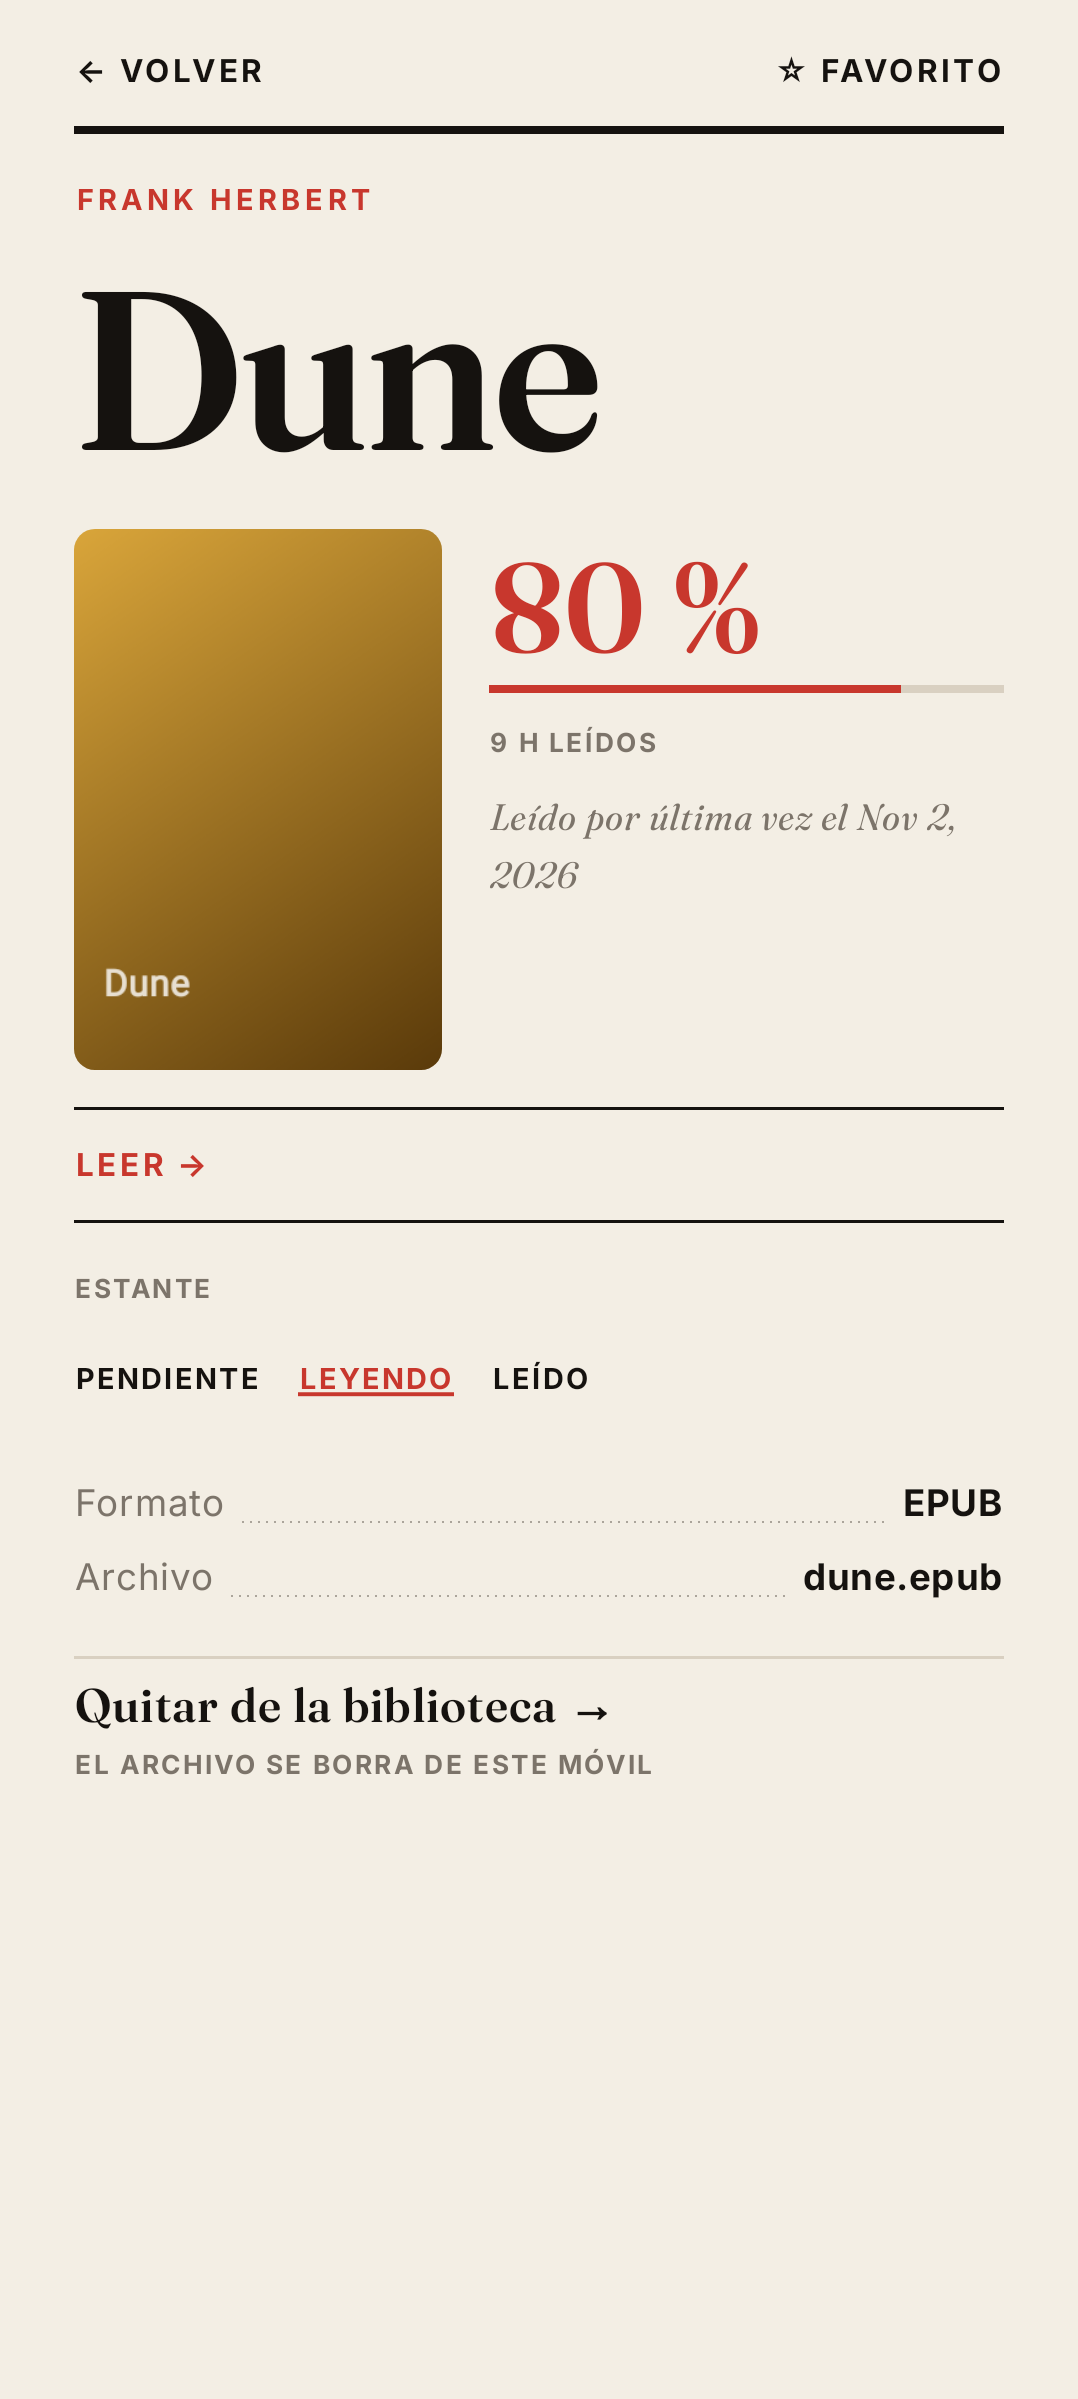
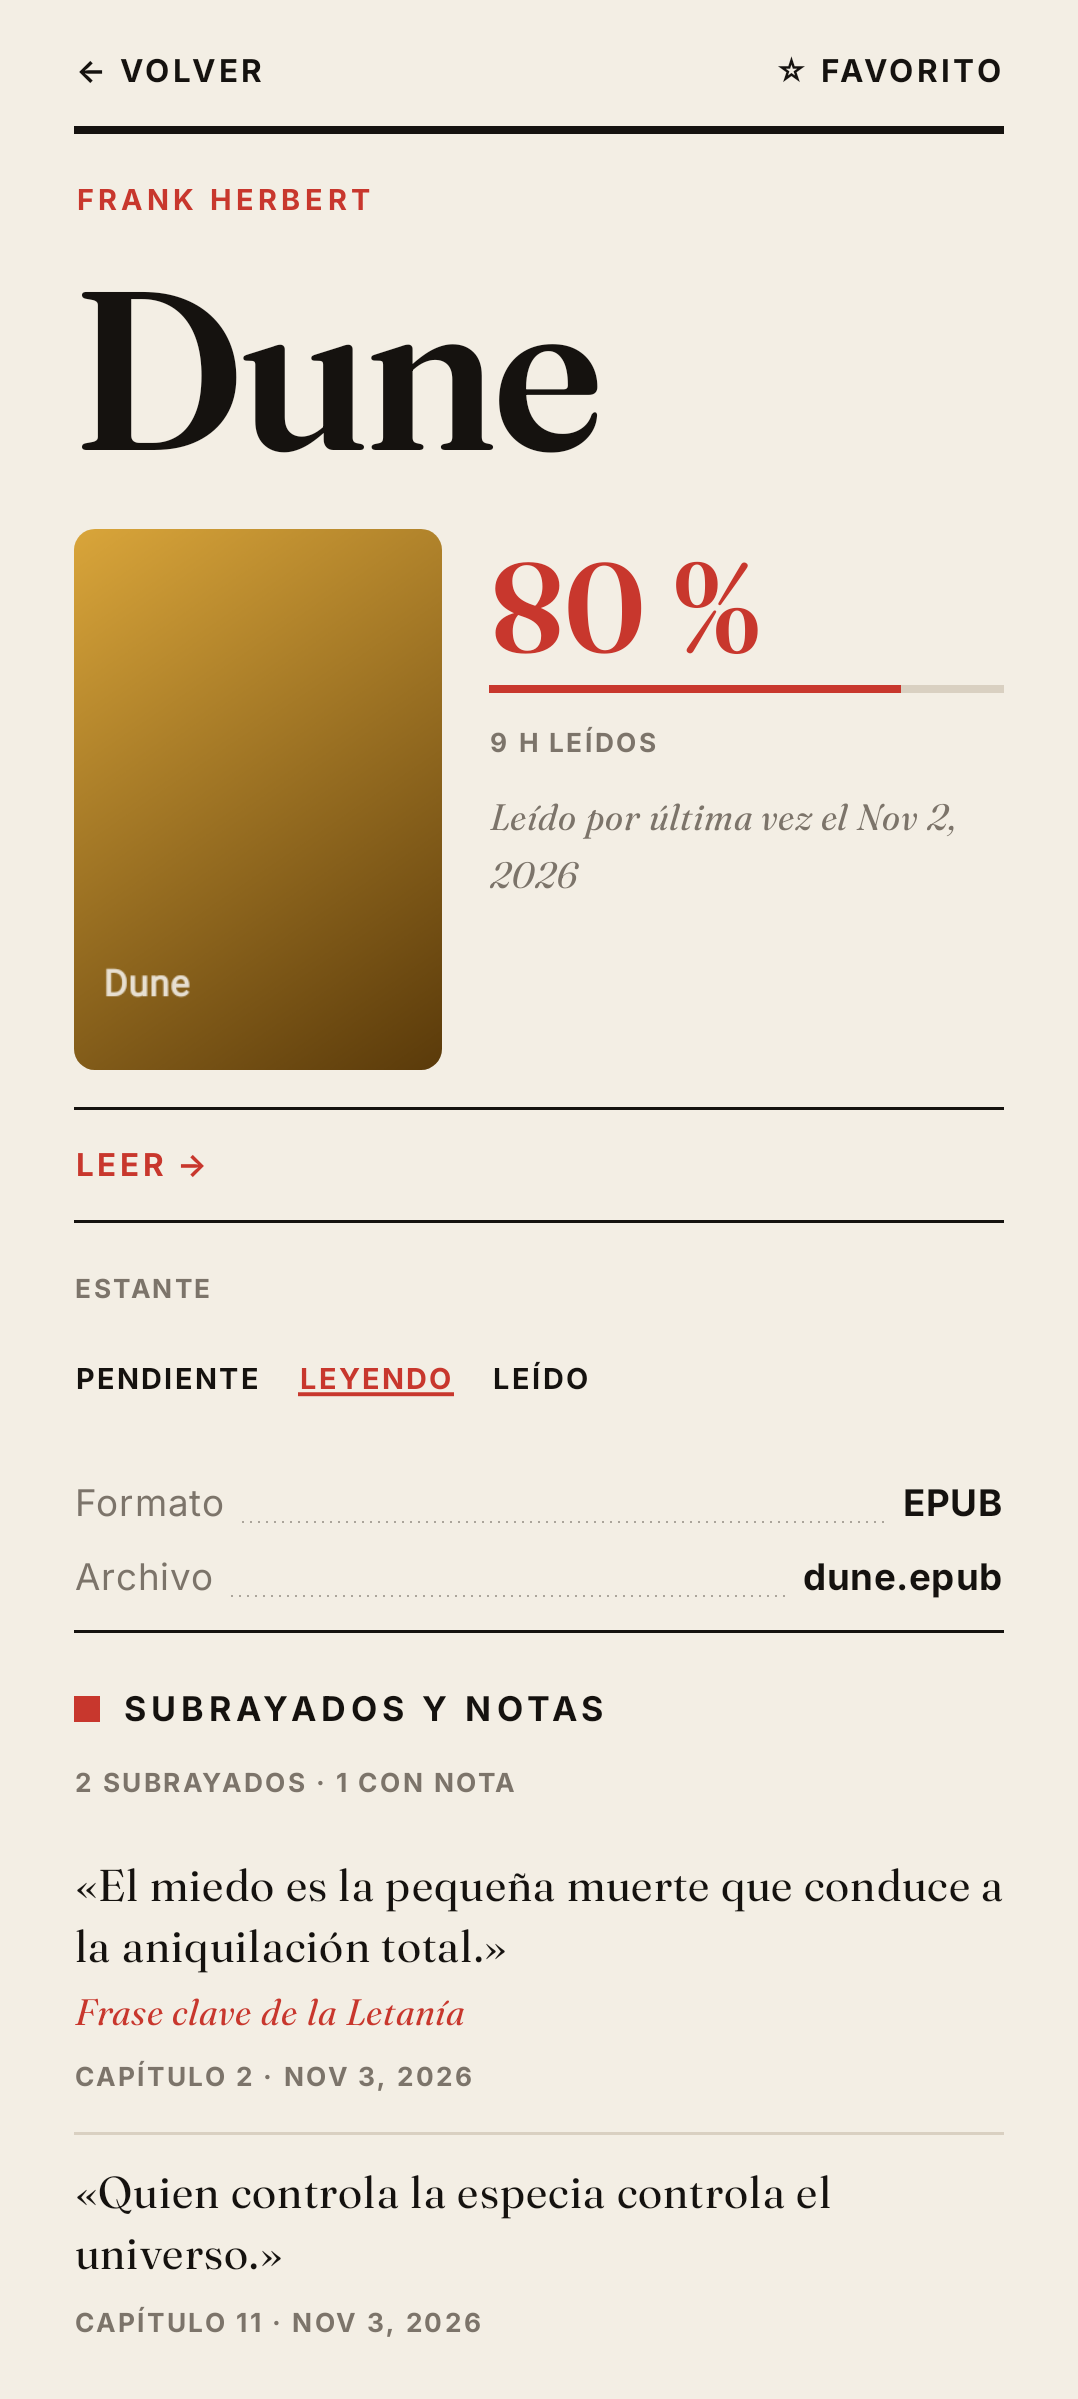
Marfil 0.6.0: subrayados y notas en la ficha, objetivo diario, tiempo ligero para el Diario, clave de libro valida en cualquier alfabeto, contrato de datos
Claude-Session: https://claude.ai/code/session_01Q4uywen3nuzUg5CTwJaCY5

diff --git a/app/src/main/java/com/gonzalo/marfil/Notas.kt b/app/src/main/java/com/gonzalo/marfil/Notas.kt
@@ -1,0 +1,56 @@
+package com.gonzalo.marfil
+
+import android.content.Context
+import androidx.compose.foundation.clickable
+import androidx.compose.foundation.layout.*
+import androidx.compose.material3.Text
+import androidx.compose.runtime.*
+import androidx.compose.ui.Modifier
+import androidx.compose.ui.platform.LocalContext
+import androidx.compose.ui.text.font.FontStyle
+import androidx.compose.ui.text.font.FontWeight
+import androidx.compose.ui.text.style.TextOverflow
+import androidx.compose.ui.unit.dp
+import androidx.compose.ui.unit.sp
+import org.json.JSONObject
+import java.text.DateFormat
+import java.util.Date
+
+/** Un subrayado (con su nota, si la tiene) de un libro: lo que guarda el lector. */
+class NotaLibro(val value: String, val texto: String, val nota: String, val etiqueta: String, val creada: Long, val fraccion: Double)
+
+/** Los subrayados y notas de un libro, en el orden del libro (y, a igual sitio, por fecha). */
+fun notasDe(st: JSONObject): List<NotaLibro> {
+    val a = st.optJSONArray("notes") ?: return emptyList()
+    return (0 until a.length()).mapNotNull { a.optJSONObject(it) }.filter { it.optString("text").isNotBlank() }.map {
+        NotaLibro(it.optString("value"), it.optString("text"), it.optString("note"), it.optString("label"), it.optLong("created"), it.optDouble("frac", -1.0))
+    }.sortedWith(compareBy<NotaLibro>({ if (it.fraccion < 0) 2.0 else it.fraccion }, { it.creada }))
+}
+
+/** «Subrayados y notas» en la ficha: tocar uno abre el libro justo ahí (si el archivo está en tu kDrive, se baja antes). */
+@Composable
+fun SeccionNotas(l: Libro) {
+    val ctx = LocalContext.current
+    val notas = remember(l.id, l.ultima, l.msPropios) { notasDe(EstadoLectura.estado(ctx, l.id)) }
+    var todas by remember { mutableStateOf(false) }
+    Antetitulo("Subrayados y notas", Modifier.padding(top = 18.dp, bottom = 6.dp))
+    if (notas.isEmpty()) {
+        Text("Aún no has subrayado nada. En el lector, mantén pulsada una palabra y toca Subrayar o Nota.", color = Muted, fontFamily = Display, fontStyle = FontStyle.Italic, fontSize = 15.sp, lineHeight = 20.sp)
+        return
+    }
+    val conNota = notas.count { it.nota.isNotBlank() }
+    Text(listOfNotNull("${notas.size} subrayado${if (notas.size == 1) "" else "s"}", if (conNota > 0) "$conNota con nota" else null).joinToString(" · ").uppercase(),
+        color = Muted, fontFamily = Body, fontSize = 10.sp, fontWeight = FontWeight.Bold, letterSpacing = 1.sp)
+    Spacer(Modifier.height(6.dp))
+    (if (todas) notas else notas.take(4)).forEachIndexed { i, n ->
+        if (i > 0) Filete(1.dp, Line)
+        Column(Modifier.fillMaxWidth().clickable { Lector.abrir(ctx, l, goto = n.value) }.padding(vertical = 10.dp)) {
+            Text("«${n.texto}»", color = Charcoal, fontFamily = Display, fontSize = 17.sp, lineHeight = 23.sp, maxLines = if (todas) 12 else 5, overflow = TextOverflow.Ellipsis)
+            if (n.nota.isNotBlank()) Text(n.nota, color = Acento, fontFamily = Display, fontStyle = FontStyle.Italic, fontSize = 14.sp, lineHeight = 19.sp, modifier = Modifier.padding(top = 4.dp))
+            Text(listOfNotNull(n.etiqueta.ifBlank { null }, if (n.creada > 0) DateFormat.getDateInstance(DateFormat.MEDIUM).format(Date(n.creada)) else null).joinToString(" · ").uppercase(),
+                color = Muted, fontFamily = Body, fontSize = 10.sp, fontWeight = FontWeight.Bold, letterSpacing = 1.sp, modifier = Modifier.padding(top = 4.dp))
+        }
+    }
+    if (notas.size > 4) Text(if (todas) "VER MENOS" else "VER LOS ${notas.size} →", color = Acento, fontFamily = Body, fontSize = 12.sp, fontWeight = FontWeight.Black, letterSpacing = 1.2.sp,
+        modifier = Modifier.clickable { todas = !todas }.padding(top = 6.dp, bottom = 4.dp))
+}

diff --git a/app/src/main/java/com/gonzalo/marfil/PantEstilo.kt b/app/src/main/java/com/gonzalo/marfil/PantEstilo.kt
@@ -36,7 +36,7 @@ import androidx.compose.material3.TextButton
 import kotlinx.coroutines.Dispatchers
 import kotlinx.coroutines.withContext
 
-const val VERSION = "0.5.0"
+const val VERSION = "0.6.0"
 
 /** «Ajustes»: Apariencia (como la de Atrio), cuenta de Atrio, actualizaciones y copias. */
 @OptIn(ExperimentalLayoutApi::class)
@@ -72,6 +72,15 @@ fun PantEstilo(alVolver: () -> Unit) {
         Spacer(Modifier.height(12.dp))
         Antetitulo("Actualizaciones", Modifier.padding(bottom = 4.dp))
         SeccionActualizaciones()
+
+        Spacer(Modifier.height(14.dp))
+        Filete(2.dp)
+        Spacer(Modifier.height(12.dp))
+        Antetitulo("Lectura", Modifier.padding(bottom = 4.dp))
+        val metas = listOf(0, 10, 15, 20, 30, 45, 60)
+        var meta by remember { mutableIntStateOf(Ajustes.metaLectura(ctx)) }
+        MagChoice(metas.map { if (it == 0) "Sin objetivo" else "$it min" }, metas.indexOf(meta).coerceAtLeast(0), "Objetivo diario") { i -> meta = metas[i]; Ajustes.ponMetaLectura(ctx, meta) }
+        Text("Las barras de la portada marcan los días que lo cumples.", color = Muted, fontFamily = Body, fontSize = 12.sp, modifier = Modifier.padding(bottom = 6.dp))
 
         Spacer(Modifier.height(14.dp))
         Filete(2.dp)

diff --git a/app/src/test/java/com/gonzalo/marfil/CapturasTest.kt b/app/src/test/java/com/gonzalo/marfil/CapturasTest.kt
@@ -58,6 +58,10 @@ class CapturasTest {
         // Unos días de lectura para que se vean las barras de la semana
         val hoy = java.time.LocalDate.now()
         val dias = org.json.JSONObject().apply { listOf(0 to 52, 1 to 35, 2 to 0, 3 to 70, 4 to 25, 5 to 41, 6 to 18).forEach { (atras, min) -> if (min > 0) put(hoy.minusDays(atras.toLong()).toString(), min * 60_000L) } }
+        val subr = org.json.JSONArray()
+            .put(org.json.JSONObject().put("value", "a").put("created", ahora - 5_000_000L).put("text", "El miedo es la pequeña muerte que conduce a la aniquilación total.").put("note", "Frase clave de la Letanía").put("label", "Capítulo 2").put("frac", 0.2))
+            .put(org.json.JSONObject().put("value", "b").put("created", ahora - 3_000_000L).put("text", "Quien controla la especia controla el universo.").put("note", "").put("label", "Capítulo 11").put("frac", 0.55))
+        EstadoLectura.ponerSinAvisar(ctx, "2", org.json.JSONObject().put("notes", subr))
         EstadoLectura.ponerSinAvisar(ctx, "1", org.json.JSONObject().put("stats", org.json.JSONObject().put("days", dias)))
     }
 

diff --git a/app/src/main/java/com/gonzalo/marfil/SincroP.kt b/app/src/main/java/com/gonzalo/marfil/SincroP.kt
@@ -77,6 +77,10 @@ object SincroP {
             Cuenta.db("PUT", "${Cuenta.raiz}/lec/$kid/${Cuenta.dispositivo}", nodo.toString(), "print=silent")
             val ts = Cuenta.db("GET", "${Cuenta.raiz}/lec/$kid/${Cuenta.dispositivo}/u", null)?.toLongOrNull() ?: throw Cuenta.Fail("Firebase no ha guardado lo leído.")
             Cuenta.db("PUT", "${Cuenta.raiz}/lstamps/$kid/${Cuenta.dispositivo}", ts.toString(), "print=silent")
+            // El tiempo leído, sin subrayados ni notas (ligero): lo que el Diario de Azabache lee. Ver docs/CONTRATO-DATOS.md
+            st.optJSONObject("stats")?.optJSONObject("dev")?.let { d ->
+                Cuenta.db("PUT", "${Cuenta.raiz}/tiempo/$kid/${Cuenta.dispositivo}", JSONObject().put("t", l.titulo).put("a", l.autor).put("dev", d).toString(), "print=silent")
+            }
             p.edit().putString("hashLec:$kid", hash).apply()
             guardaVistosLec(c, vistosLec(c).put("$kid/${Cuenta.dispositivo}", ts))
             bien(c); true

diff --git a/app/src/main/java/com/gonzalo/marfil/Modelo.kt b/app/src/main/java/com/gonzalo/marfil/Modelo.kt
@@ -53,7 +53,7 @@ data class Libro(
 /** Lo que identifica a un libro en todos tus dispositivos (el id de cada uno es distinto): título y autor, sin tildes ni mayúsculas. */
 fun claveDe(titulo: String, autor: String) = "libro:" + norm(titulo) + ":" + norm(autor)
 
-fun norm(s: String): String = Normalizer.normalize(s.lowercase(), Normalizer.Form.NFD).replace(Regex("\\p{M}+"), "").replace(Regex("[^a-z0-9]+"), " ").trim()
+fun norm(s: String): String = Normalizer.normalize(s.lowercase(), Normalizer.Form.NFD).replace(Regex("\\p{M}+"), "").replace(Regex("[^\\p{L}\\p{N}]+"), " ").trim()
 
 /** Lo que se edita de un libro y viaja con la cuenta (gana el cambio más reciente). */
 fun compartidos(l: Libro) = listOf(l.titulo, l.autor, l.favorito, l.estado)

diff --git a/app/src/test/java/com/gonzalo/marfil/MezclaLecturaTest.kt b/app/src/test/java/com/gonzalo/marfil/MezclaLecturaTest.kt
@@ -89,3 +89,11 @@ class MezclaLecturaTest {
         assertEquals(k, MezclaLectura.kid("libro:el nombre de la rosa:umberto eco"))
     }
 }
+
+class ClaveTest {
+    @Test fun titulosEnOtrosAlfabetosNoSeFunden() {
+        assertNotEquals(claveDe("Война и мир", "Лев Толстой"), claveDe("Преступление и наказание", "Фёдор Достоевский"))
+        assertNotEquals(claveDe("吾輩は猫である", "夏目漱石"), claveDe("こころ", "夏目漱石"))
+        assertEquals(claveDe("La sombra del viento", "Carlos Ruiz Zafón"), claveDe("la SOMBRA del viento!", "carlos ruiz zafon"))
+    }
+}

diff --git a/app/src/main/java/com/gonzalo/marfil/PantFicha.kt b/app/src/main/java/com/gonzalo/marfil/PantFicha.kt
@@ -49,6 +49,9 @@ fun PantFicha(id: String, alCerrar: () -> Unit, alLeer: (Libro) -> Unit) {
         Spacer(Modifier.height(10.dp))
         MagFact("Formato", l.formato.uppercase().ifBlank { "—" })
         MagFact("Archivo", if (l.enOtroDispositivo) "en otro de tus dispositivos" else l.archivo)
+        Spacer(Modifier.height(6.dp))
+        Filete(1.dp)
+        SeccionNotas(l)
         Spacer(Modifier.height(16.dp))
         Filete(1.dp, Line)
         MagLink("Quitar de la biblioteca", "El archivo se borra de este móvil") { quitar = true }

diff --git a/docs/CONTRATO-DATOS.md b/docs/CONTRATO-DATOS.md
@@ -1,0 +1,29 @@
+# Contrato de datos de Marfil (lo que otras apps pueden leer)
+
+Todo vive en tu cuenta de Firebase bajo `/users/<uid>/marfil/`. Marfil escribe; Azabache (y quien venga) **lee**. Nada de esto cambia Atrio.
+Estado: **propuesta de Marfil**; Azabache aún no lo lee. Los nombres están pensados para no tener que cambiarse al añadirlo.
+
+## Identidad de un libro
+
+`clave` = `"libro:" + norm(título) + ":" + norm(autor)` (norm: minúsculas, sin tildes, y todo lo que no sea letra o número —de cualquier alfabeto— pasa a un espacio). Se fija al crear el libro y no cambia aunque se edite el título.
+En la cuenta un libro se llama `kid` = los 20 primeros hex del SHA-1 de la clave (la clave tiene puntos y barras, que Firebase no admite).
+Las valoraciones de Azabache deben enlazarse por esta misma clave.
+
+## Nodos
+
+| Nodo | Contenido | Quién escribe |
+|---|---|---|
+| `dev/<dispositivo>/data` | La biblioteca de ese dispositivo (texto JSON `v:1`): por libro `k` (clave), `t` título, `a` autor, `ar` archivo, `f` favorito, `e` estado (`PENDIENTE`/`LEYENDO`/`LEIDO`), `an` añadido, `ul` última lectura, `fr` fracción (0–1), `mod`, `msp` ms leídos en ese dispositivo; `borrados` (clave → hora). | cada Marfil, solo el suyo |
+| `stamps/<dispositivo>` | Hora de la última subida de ese dispositivo (servidor). | cada Marfil |
+| `lec/<kid>/<dispositivo>` | `{t, u, s}`: `s` es el estado de lectura entero (posición, subrayados, notas, marcadores, ajustes, tiempo). **Pesado**: no leerlo para listados. | cada Marfil |
+| `lstamps/<kid>/<dispositivo>` | Hora de la última subida de ese libro en ese dispositivo. | cada Marfil |
+| `tiempo/<kid>/<escritor>` | `{t, a, dev}`: título, autor y el tiempo leído: `dev[<dispositivo>] = {total (ms), days: {"AAAA-MM-DD": ms}, best}`. **Ligero**: es lo que debe leer un Diario. | cada Marfil |
+| `nube/<kid>` | `{f, n, s, u}`: id del archivo en kDrive, nombre, tamaño, hora. | cualquier Marfil |
+
+## Cómo leer el tiempo para un Diario
+
+Para cada libro, lee `tiempo/<kid>/*`. Cada escritor trae su vista de **todos** los dispositivos; une por dispositivo y día quedándote con el **máximo** (no sumes entre escritores: se contaría varias veces) y después suma los dispositivos. Con eso, los minutos de cada día y por libro salen sin duplicar. Los dispositivos de Atrio importados aparecen como un dispositivo más (con su propio id).
+
+## Lo que aún no está (se añadirá cuando Azabache lo pida)
+
+Fecha exacta en que se terminó un libro; subrayados en un nodo ligero (hoy solo van dentro de `lec`).
